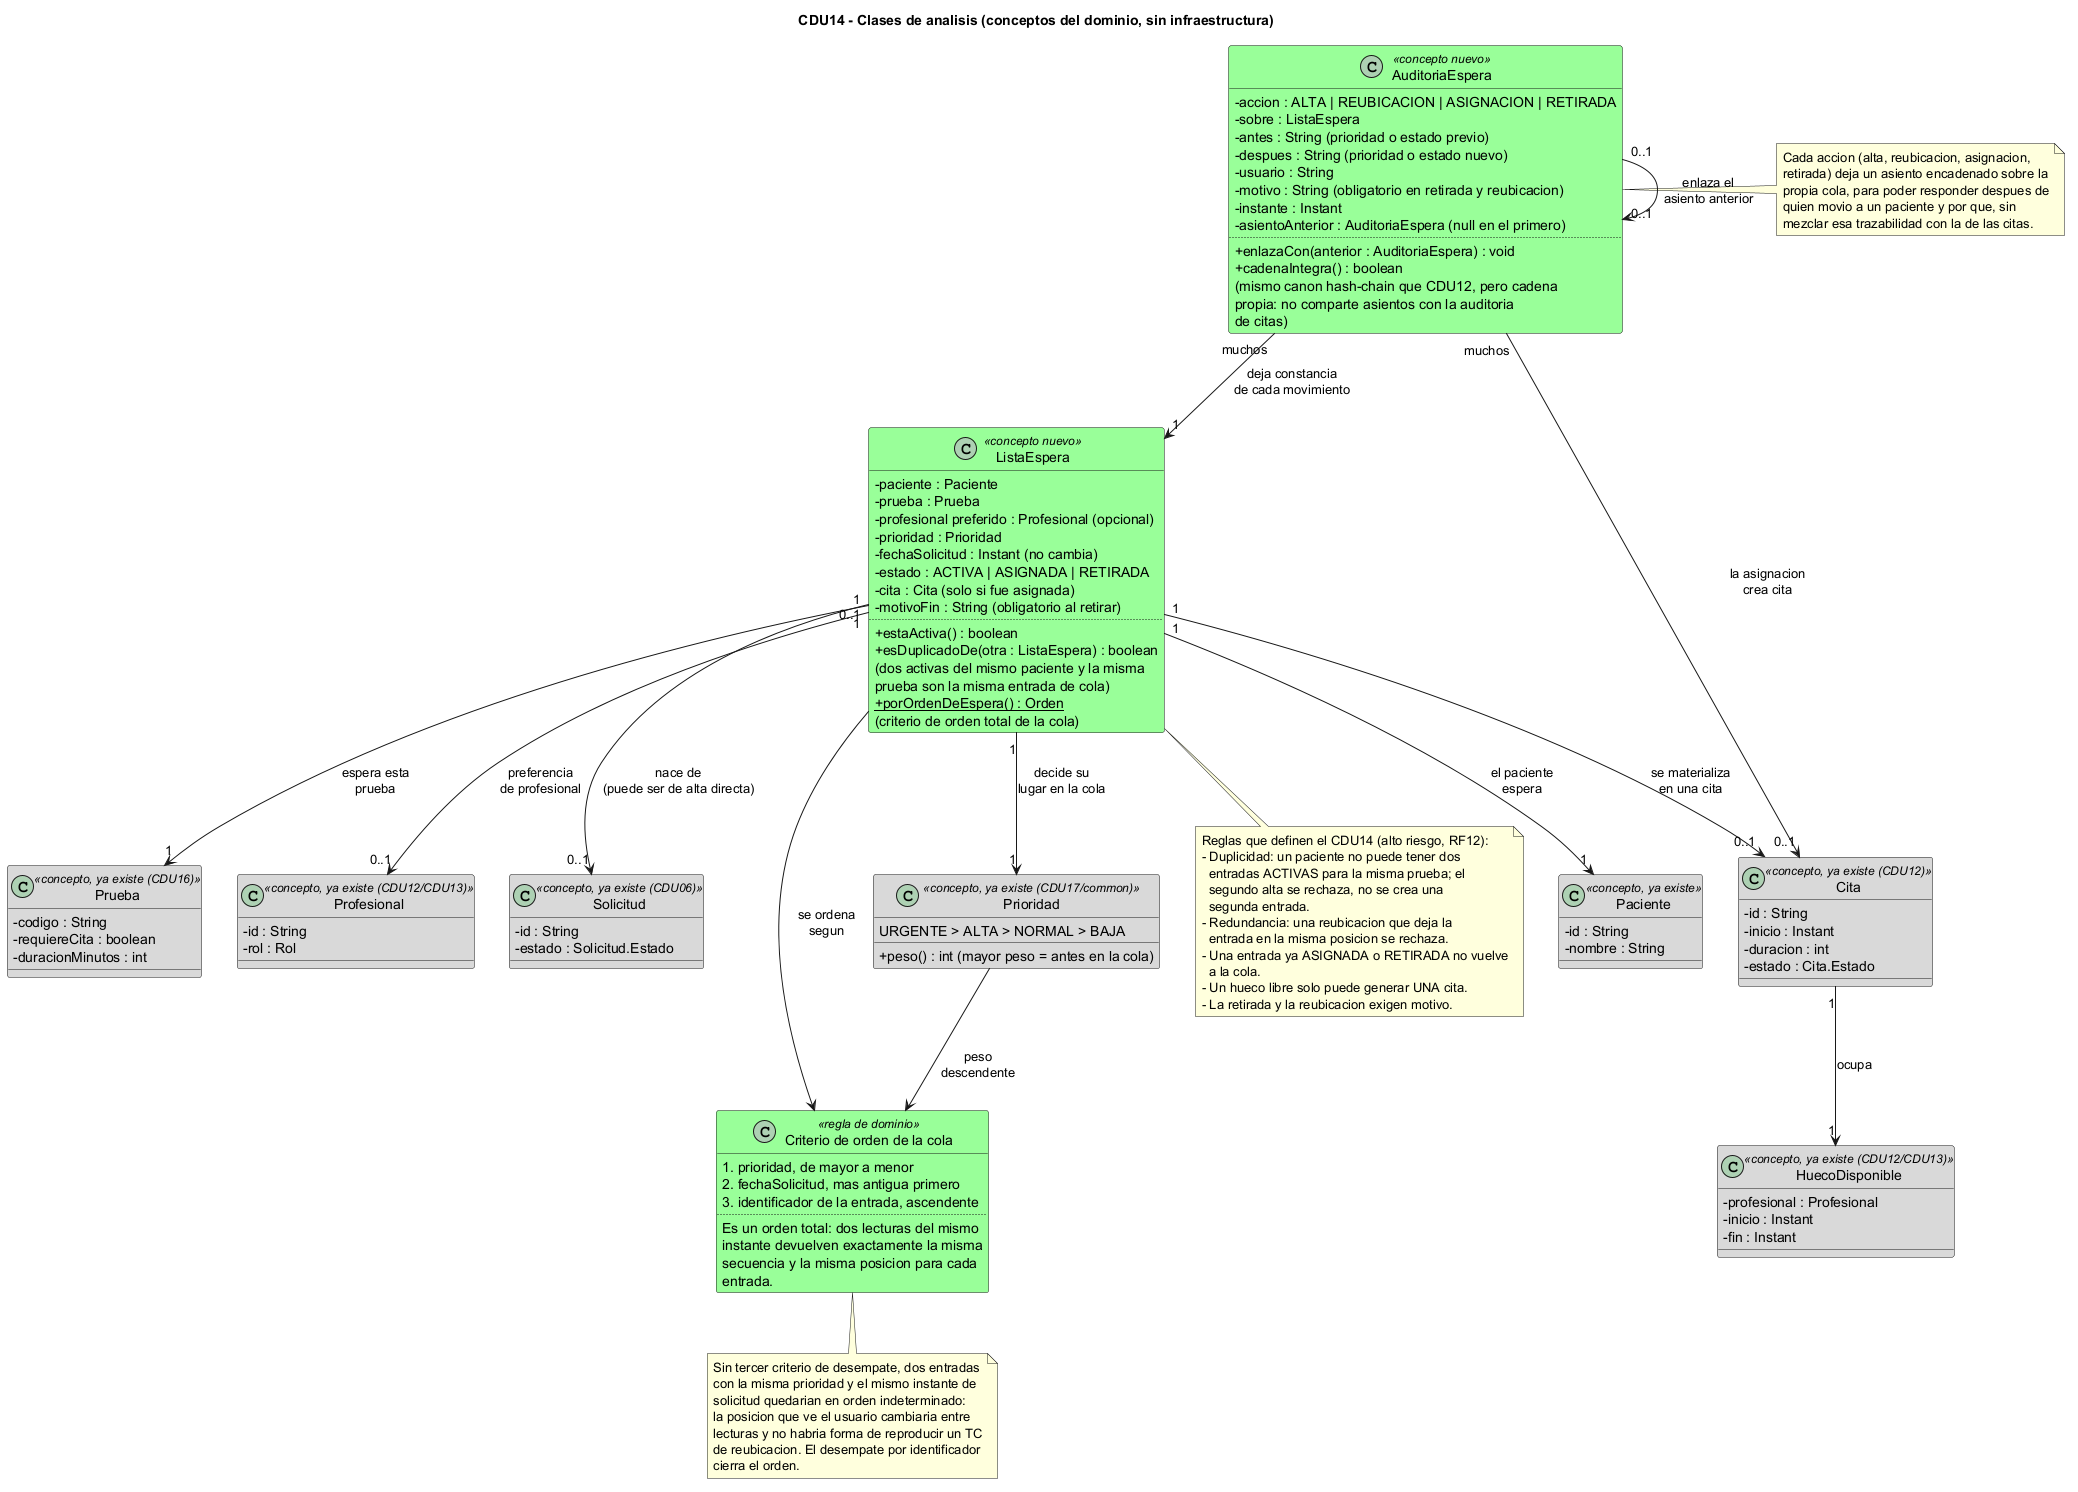
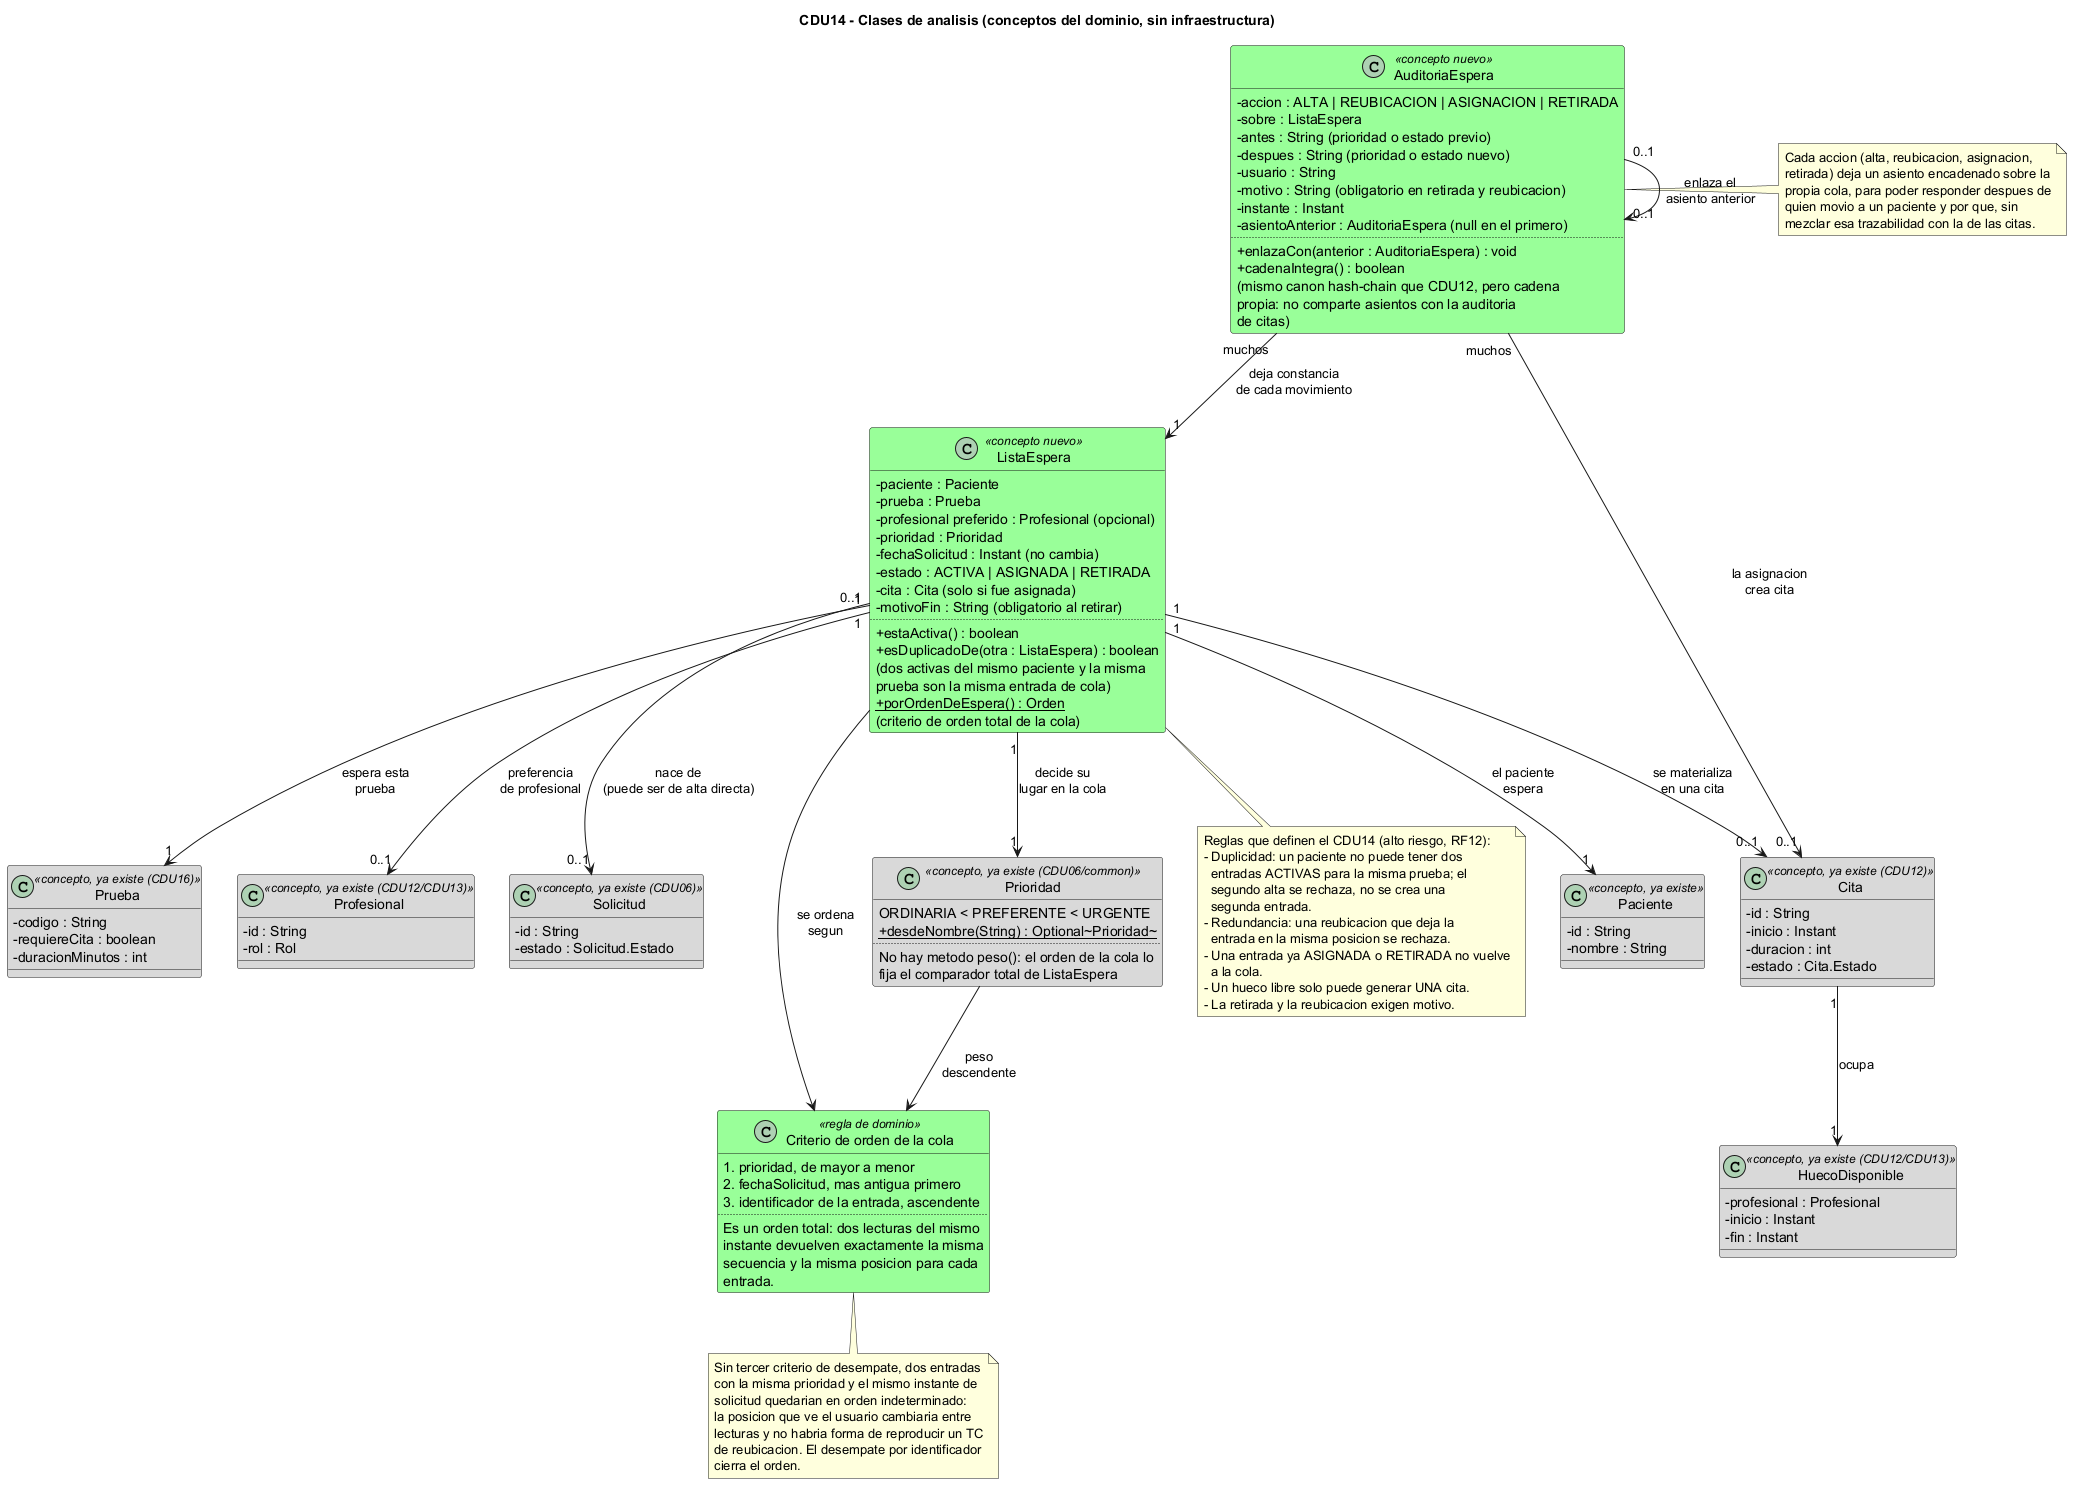
docs(modelo-iter07): alinear el modelo fusionado con el codigo real
Correcciones sobre la rama docs/iter07-modelo tras el merge (el modelo
pintaba hechos que el codigo real desmiente; D31 obliga a que el
.puml sea contrato fiel):

- Prioridad: la escala real de CDU06 es ORDINARIA/PREFERENTE/URGENTE
  (la declaracion es la escala, el comparador usa reverseOrder()); no
  existe URGENTE/ALTA/NORMAL/BAJA ni metodo peso(). Corregido en
  clases-analisis (era CDU17/common: es CDU06/common) y clases-diseno.
- Eslabon genesis cerrado al literal GENESIS con hashAnterior nulo
  (canon AuditoriaCitas.GENESIS), igual que la decision de la spec
  TDOP; fuera el "pendiente: 64 ceros o GENESIS" de diseno, secuencia
  y README.
- Excepciones renombradas al canon: ListaEsperaNoEncontradaException y
  ListaEsperaConflictoException con enum anidado Conflicto de nombres
  desnudos (el manejador anade el prefijo CONFLICTO_, como
  CitaConflictoException).
- Permisos con el formato dominio:accion real: lista_espera:leer y
  lista_espera:escribir; iso2-common y iso2-seguridad suben a
  1.2.0-SNAPSHOT por extension aditiva (D23), coherente con el bump
  que se aplicara en el pom.
- Secuencia: la entrada inexistente usa un UUID bien formado (path
  variable tipada a UUID; "no-existe" seria 400, no 404).

PNG re-renderizados con plantuml.jar (-tpng, LIMIT_SIZE 16384).

Ref: #47

diff --git a/docs/modelo/iter07/README.md b/docs/modelo/iter07/README.md
@@ -29,7 +29,7 @@ alcance modelado es dominio + servicio + REST + Flyway + RBAC.
 | --- | --- |
 | `cdu14-casos-uso.puml` | Casos de uso de CDU14: dar de alta en la cola (UC14.1), consultar la cola ordenada con filtros (UC14.2), reubicar la prioridad (UC14.3), retirar con motivo (UC14.4), asignar un hueco desde la cola (UC14.5), verificar la auditoria de la cola (UC14.6) y ver el detalle de una entrada (UC14.7), con `<<include>>` de CDU17 (autenticar y autorizar) y del canon de auditoria hash-chain de CDU12, y `<<extend>>` de UC12.2 (agendar sobre hueco libre). Actores: Administrativo (RECEPCIONISTA o ADMINISTRADOR), Medico solo lectura y el Sistema como ejecutor de las reglas duras |
 | `cdu14-clases-analisis.puml` | Conceptos del dominio, sin infraestructura: `ListaEspera` (paciente, prueba, profesional opcional, prioridad, fechaSolicitud y estado ACTIVA/ASIGNADA/RETIRADA), `AuditoriaEspera` como traza encadenada de la cola, el **criterio de orden de la cola** como regla de dominio con tres niveles, y los conceptos ya existentes reutilizados (Paciente, Prueba de CDU16, Profesional, Solicitud de CDU06, Cita y HuecoDisponible de CDU12/CDU13, Prioridad de `iso2-common`), con las reglas de duplicidad, redundancia, no reentrada y un hueco = una cita |
-| `cdu14-clases-diseno.puml` | Implementacion prevista: `ListaEsperaFacade` en `iso2-common` 1.1.0 con sus records nuevos (`AltaEsperaDTO`, `EntradaEsperaDTO` con `posicion` y `total`, `ReubicacionDTO`, `AsignacionEsperaDTO`, `RetiradaEsperaDTO`, `AsignacionResultadoDTO`, `VerificacionAuditoriaDTO`) y dos excepciones nuevas; en `iso2-citas` 1.2.0-SNAPSHOT la entidad `ListaEspera` (tabla `lista_espera`, `claveDuplicada` UNIQUE con NULL en terminal) con `{static} porOrdenDeEspera()`, `AuditoriaEspera` (tabla `espera_auditoria`), `ListaEsperaRepositorio` y `AuditoriaEsperaRepositorio`, `ListaEsperaServicio` (`cambiarPrioridad(esperaId, prioridad, motivo, usuario)`, `asignarDesdeCola(esperaId, inicio, duracionMinutos)`), `ListaEsperaControlador` + `ListaEsperaManejadorErrores`, el bloque gris de CDU12 que se reutiliza sin tocar, `ConfigSeguridad` y Flyway `V1.6.0` en `iso2-server-app` 0.3.0-SNAPSHOT y los permisos `listaespera:leer`/`listaespera:escribir` en `iso2-seguridad` |
+| `cdu14-clases-diseno.puml` | Implementacion prevista: `ListaEsperaFacade` en `iso2-common` 1.2.0-SNAPSHOT con sus records nuevos (`AltaEsperaDTO`, `EntradaEsperaDTO` con `posicion` y `total`, `ReubicacionDTO`, `AsignacionEsperaDTO`, `RetiradaEsperaDTO`, `AsignacionResultadoDTO`, `VerificacionAuditoriaDTO`) y dos excepciones nuevas; en `iso2-citas` 1.2.0-SNAPSHOT la entidad `ListaEspera` (tabla `lista_espera`, `claveDuplicada` UNIQUE con NULL en terminal) con `{static} porOrdenDeEspera()`, `AuditoriaEspera` (tabla `espera_auditoria`), `ListaEsperaRepositorio` y `AuditoriaEsperaRepositorio`, `ListaEsperaServicio` (`cambiarPrioridad(esperaId, prioridad, motivo, usuario)`, `asignarDesdeCola(esperaId, inicio, duracionMinutos)`), `ListaEsperaControlador` + `ListaEsperaManejadorErrores`, el bloque gris de CDU12 que se reutiliza sin tocar, `ConfigSeguridad` y Flyway `V1.6.0` en `iso2-server-app` 0.3.0-SNAPSHOT y los permisos `lista_espera:leer`/`lista_espera:escribir` en `iso2-seguridad` 1.2.0-SNAPSHOT |
 | `cdu14-secuencia.puml` | Flujos reales de los TCs: ver la cola (medico, 200 con posicion 1..n), alta feliz (201 con `posicion` y `total`), alta repetida (409 `CONFLICTO_ALTA_DUPLICADA`, sin eslabon nuevo), reubicacion feliz (200 con posicion antes/despues), doble clic en reubicar (409 `CONFLICTO_REUBICACION_REDUNDANTE` y cadena sin cambios), retirar sin motivo (400 `DATOS_INVALIDOS`) y retirar dos veces (409 `CONFLICTO_ENTRADA_NO_ACTIVA`), **dos hilos asignando el mismo hueco desde la cola** (par: 201 con una cita + 409 `CONFLICTO_HUECO_OCUPADO` heredado de CDU12, y al final 1 cita, 1 fila de `cita_hueco` y 1 eslabon `ASIGNACION`), reasignar una entrada ya asignada (409), id inexistente (404 `LISTA_ESPERA_NO_ENCONTRADA`), `GET /api/listas-espera/auditoria-verificable` con la cadena integra, y los 403/401 de la matriz RBAC |
 
 Convencion de las fuentes: ASCII puro en comentarios y etiquetas de PlantUML (sin
@@ -92,9 +92,10 @@ Dos detalles que importan:
 Las decisiones que fija este diagrama (y que luego sujetan los tests):
 
 - **El contrato comun se extiende en MINOR**: `ListaEsperaFacade` y sus records nuevos
-  entran en `iso2-common` 1.1.0-SNAPSHOT; `CitaFacade` (CDU12) queda congelado e
-  intocado. Las dos excepciones nuevas (`ListaEsperaException` para 404 y
-  `ListaEsperaConflictException` con codigo para 409) siguen el patron de
+  entran en `iso2-common` 1.2.0-SNAPSHOT; `CitaFacade` (CDU12) queda congelado e
+  intocado. Las dos excepciones nuevas (`ListaEsperaNoEncontradaException` para 404 y
+  `ListaEsperaConflictoException` con enum anidado `Conflicto` para 409) siguen el
+  patron de
   `CitaNoEncontradaException` / `CitaConflictoException`.
 - **Orden determinista con tres niveles**: `ListaEspera.porOrdenDeEspera()` es
   `prioridad DESC, fechaSolicitud ASC, esperaId ASC` y `ListaEsperaRepositorio.cola`
@@ -123,12 +124,12 @@ Las decisiones que fija este diagrama (y que luego sujetan los tests):
   cita, un eslabon de asignacion**.
 - **Auditoria encadenada de la cola**: canon
   `accion|esperaId|antes->despues|usuario|motivo|instante|hashAnterior` con acciones
-  `ALTA` / `REUBICACION` / `ASIGNACION` / `RETIRADA`, eslabon genesis con
-  `hashAnterior` de 64 ceros y cadena **independiente** de `cita_auditoria`.
-  Pendiente de cerrar al programar: el cuerpo del issue #47 habla de `GENESIS` +
-  `hashAnterior` y `AuditoriaCitas` usa el literal `GENESIS` con `hashAnterior` nulo,
-  asi que la decision (64 ceros o literal `GENESIS`) se toma en la fase de codigo y
-  se refleja en este `.puml`.
+  `ALTA` / `REUBICACION` / `ASIGNACION` / `RETIRADA`, eslabon genesis con el
+  literal `GENESIS` y `hashAnterior` nulo, y cadena **independiente** de
+  `cita_auditoria`.
+  Decidido: el eslabon genesis usa el literal `GENESIS` con `hashAnterior` nulo, el
+  mismo canon de `AuditoriaCitas.GENESIS`; asi las dos cadenas comparten criterio y
+  CDU18 (Iter15) podra unirlas sin sorpresas.
 - **RBAC y ensamblado**: `Permiso.LISTA_ESPERA_LEER` (ADMINISTRADOR, MEDICO,
   RECEPCIONISTA) y `LISTA_ESPERA_ESCRIBIR` (ADMINISTRADOR, RECEPCIONISTA) con sus
   reglas en `ConfigSeguridad`; migracion `V1.6.0__cdu14_listas_espera.sql` en `h2/`
@@ -156,15 +157,18 @@ El diagrama de diseno describe el codigo **aun por implementar** (la rama de cod
 sera `feature/iter07-cdu14-listas-espera`, issue #47; este modelo vive en
 `docs/iter07-modelo`). Lo que se compromete a construir:
 
-- `iso2-common` 1.1.0-SNAPSHOT: `ListaEsperaFacade` con sus records y las excepciones
-  `ListaEsperaException` y `ListaEsperaConflictException` (codigo anidado).
+- `iso2-common` 1.2.0-SNAPSHOT (elevado de 1.1.0 por la fachada nueva, D23):
+  `ListaEsperaFacade` con sus records y las excepciones
+  `ListaEsperaNoEncontradaException` y `ListaEsperaConflictoException`
+  (enum anidado `Conflicto`).
   Extension aditiva: el baseline de CDU12 no se toca.
 - `iso2-citas` 1.2.0-SNAPSHOT (elevado de 1.1.0 por CDU14, D23): `ListaEspera`,
   `ListaEspera.Estado`, `AuditoriaEspera`, `ListaEsperaRepositorio`,
   `AuditoriaEsperaRepositorio`, `ListaEsperaServicio`, `ListaEsperaControlador` y
   `ListaEsperaManejadorErrores`. La cota propia del modulo sigue en **0,80 de linea**
   y el reactor sigue por encima de la puerta R2 (linea >= 70 %, rama >= 55 %).
-- `iso2-seguridad` 1.1.0: `Permiso.LISTA_ESPERA_LEER` / `LISTA_ESPERA_ESCRIBIR` en la
+- `iso2-seguridad` 1.2.0-SNAPSHOT (elevado de 1.1.0 por los permisos nuevos, D23):
+  `Permiso.LISTA_ESPERA_LEER` / `LISTA_ESPERA_ESCRIBIR` en la
   matriz y su reparto en `MatrizPermisos`.
 - `iso2-server-app` 0.3.0-SNAPSHOT: reglas `/api/listas-espera/**` en
   `ConfigSeguridad` (GET para ADMINISTRADOR, MEDICO y RECEPCIONISTA; POST de alta,
